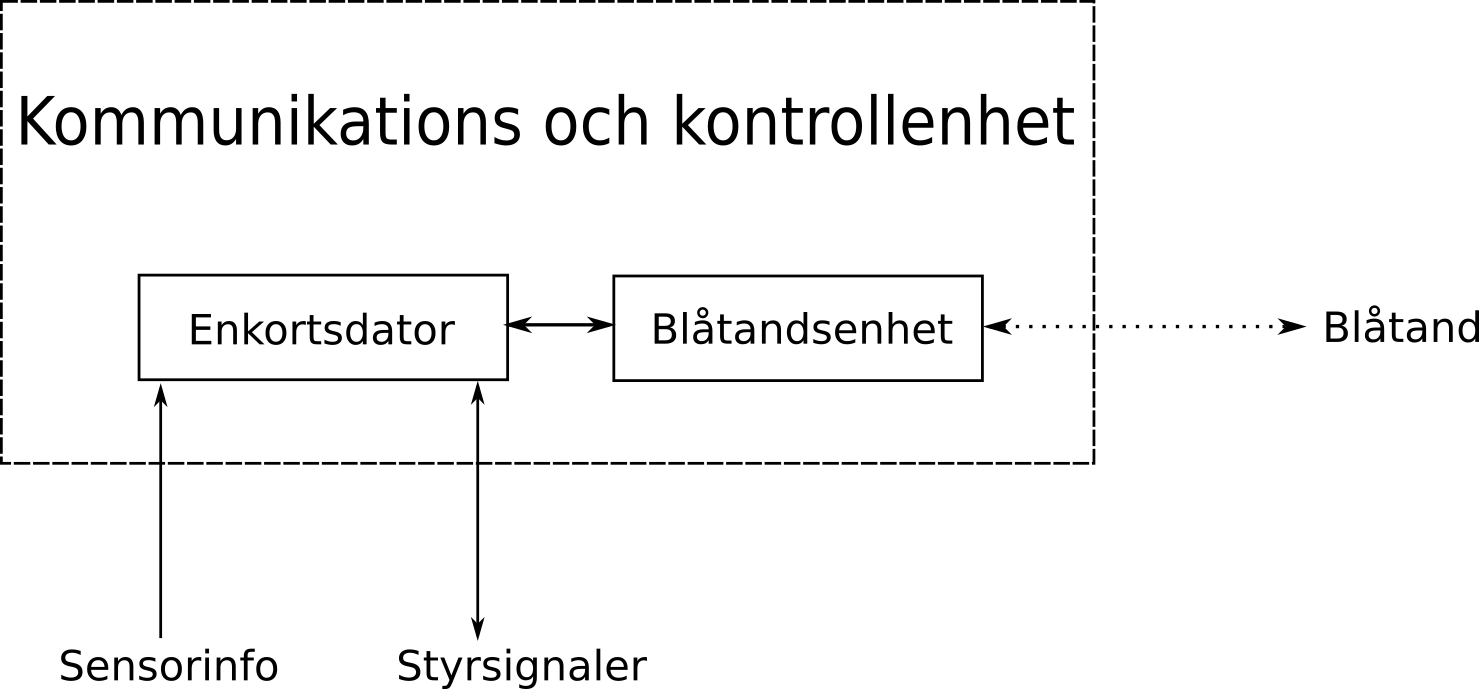
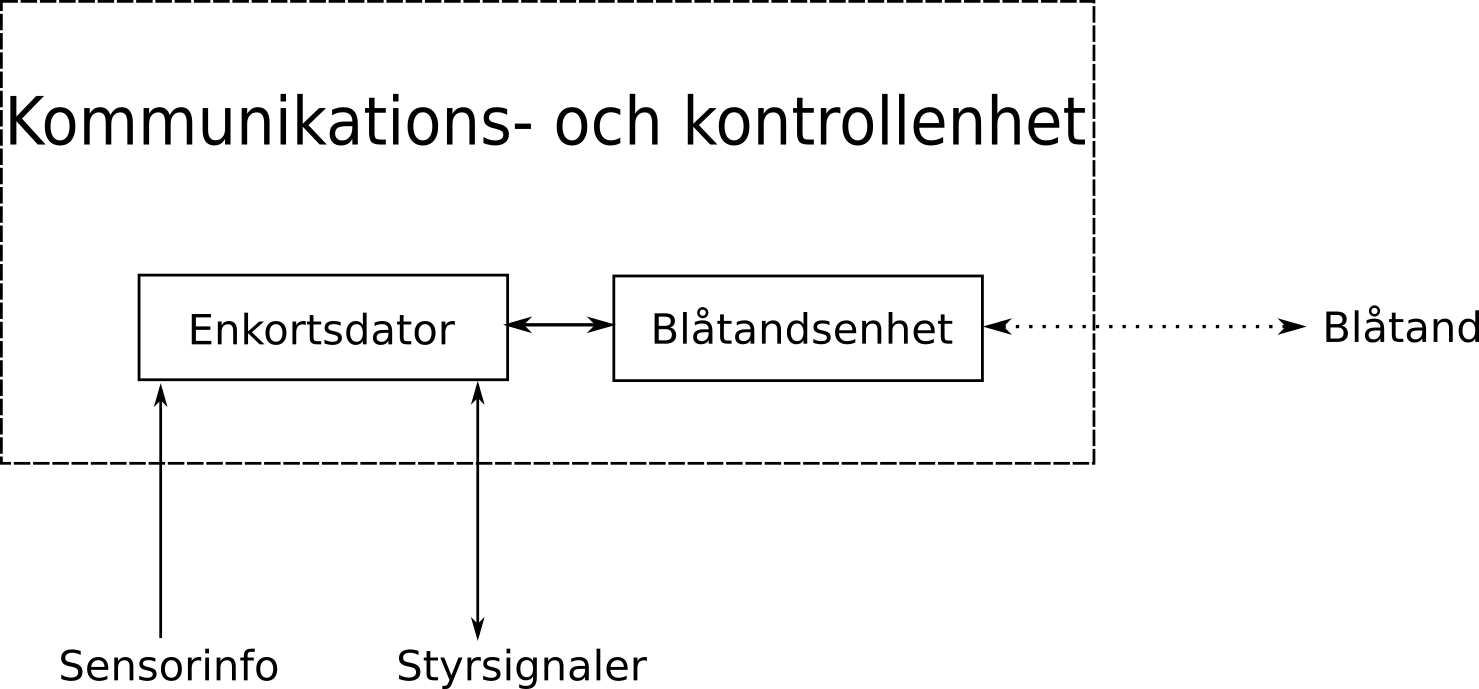
Add - after kommunikations

Changed region(s): [[0.0, 0.1219, 0.7465, 0.2134]]

diff --git a/doc/kravspec.tex b/doc/kravspec.tex
@@ -253,7 +253,7 @@ Styrenheten är ansvarig för all logik och funktionalitet av robotens styrning.
     \LIPSkrav{Original}{Styrenheten ska kunna översätta högnivåinstruktioner som exempelvis ''hastighet n/max rakt fram'' och ''sväng n grader åt höger'' till motorsignaler.}{1}
 \end{LIPSkravlista}
 
-\section{Delsystem 3 - Kommunikations och kontrollenhet }
+\section{Delsystem 3 - Kommunikations- och kontrollenhet }
 \begin{figure}[h!]
     \centering
     \includegraphics[scale=1]{brain.png} %TODO Ska blåtandsenheten ritas inuti enkortsdatorn?
